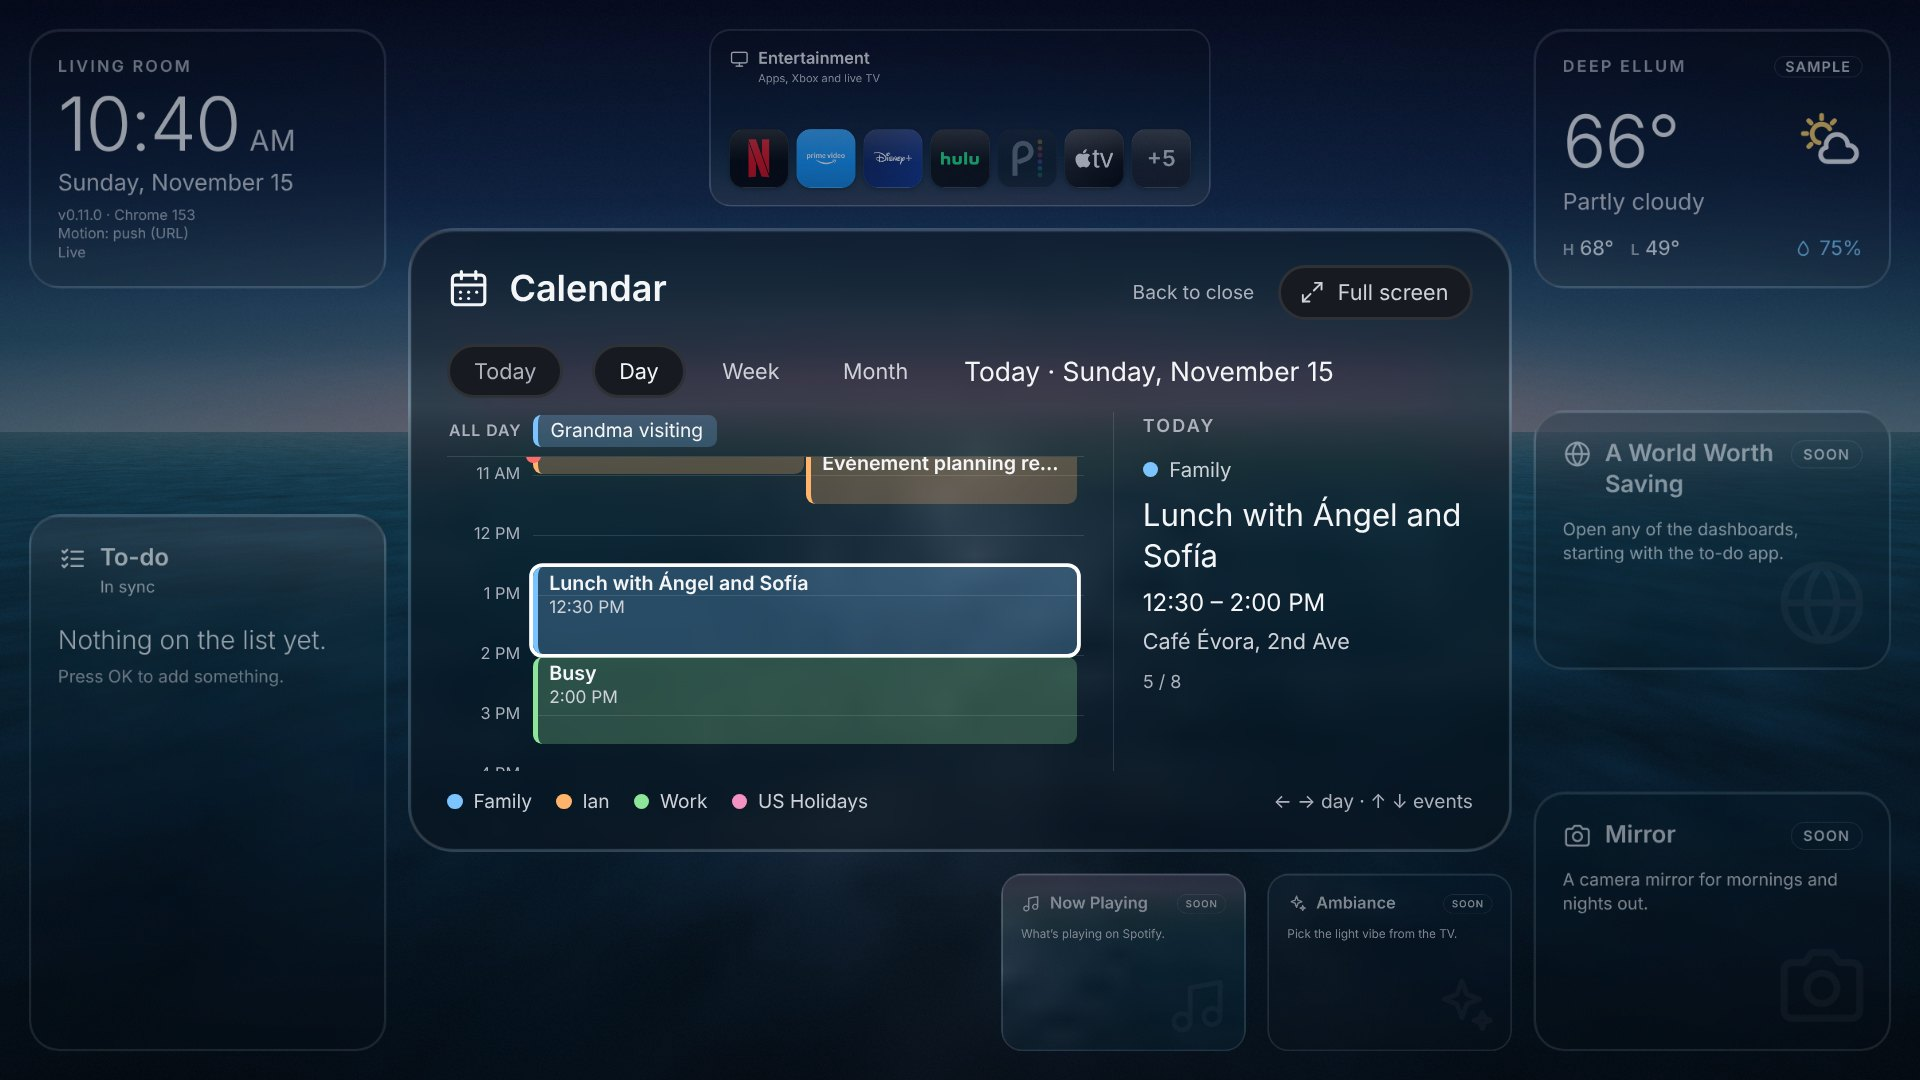
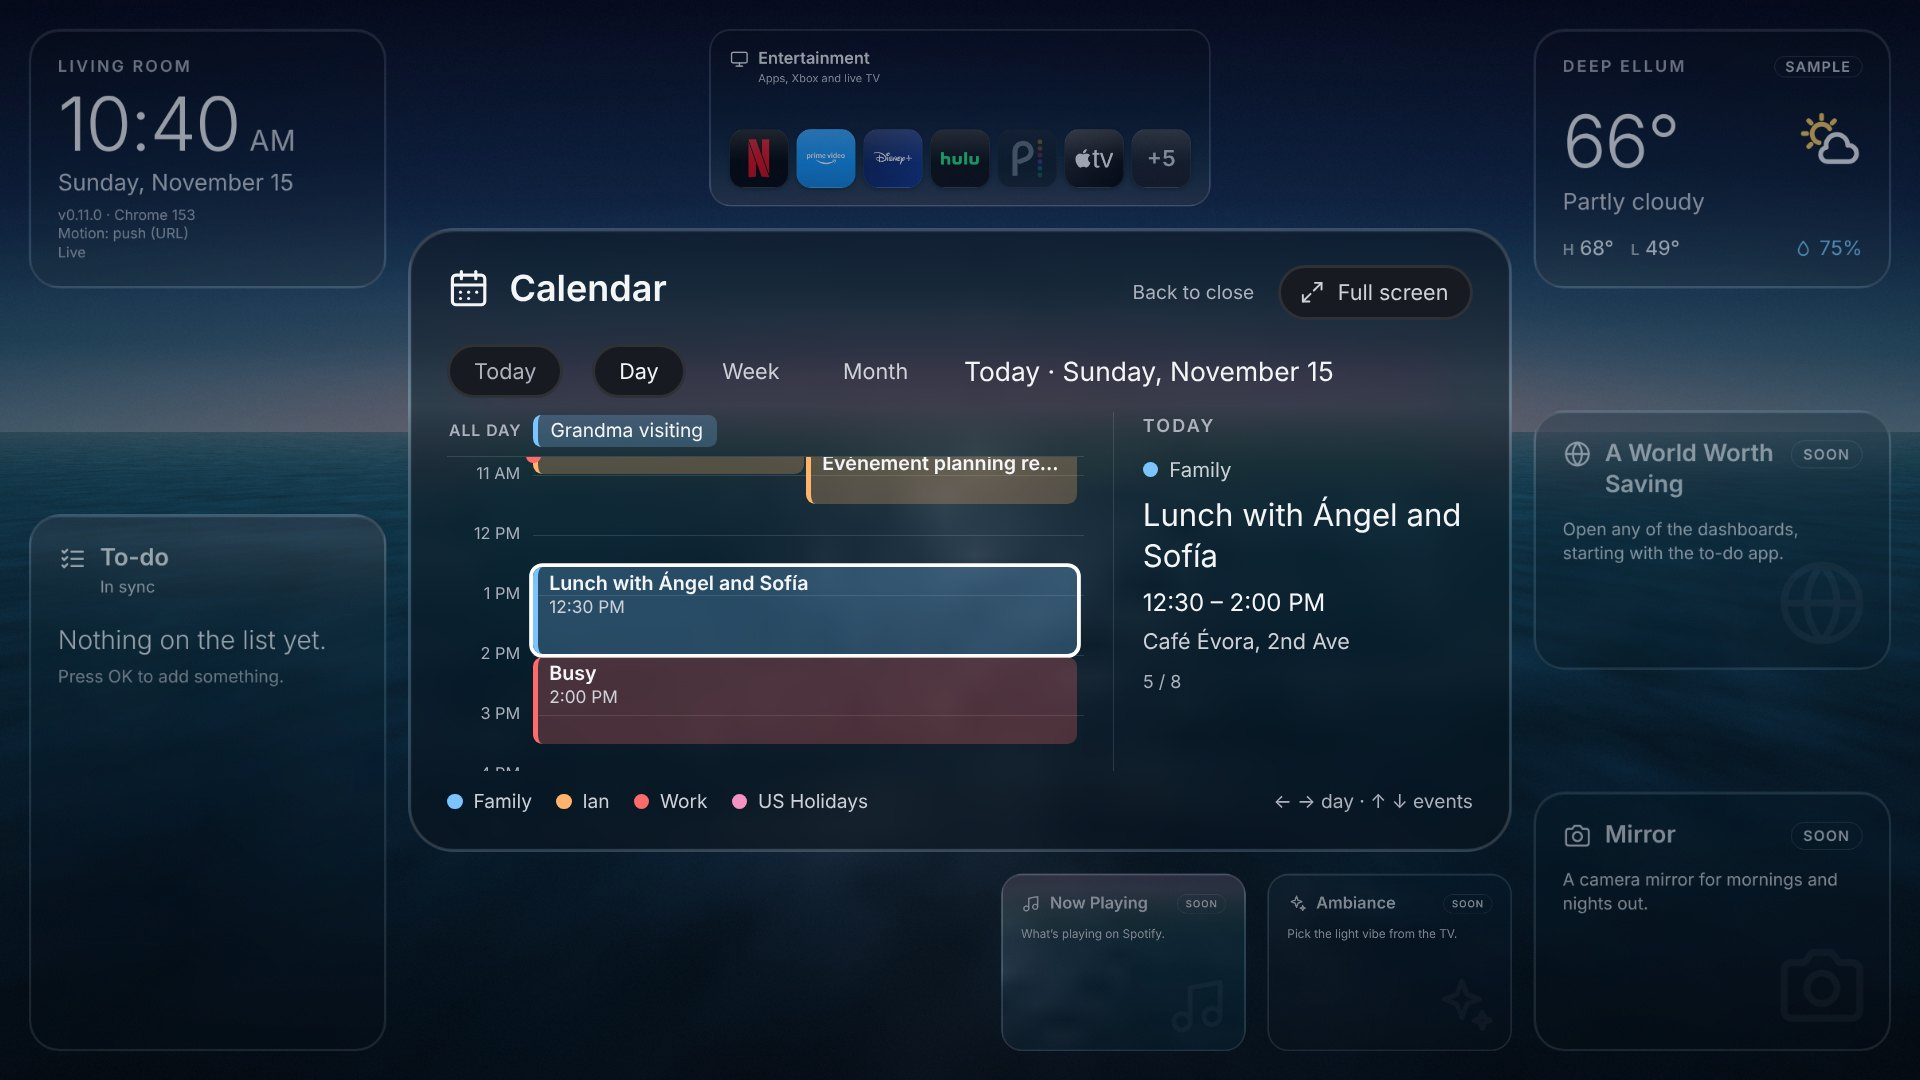
Calendar colors: CALENDAR_n_COLOR in the Pi's .env picks each calendar's color (v0.11.1)
Google's secret iCal address carries no colors, so the TV colored calendars by their number. A name (red, blue, ...) or #rrggbb per calendar now travels in the calendar data and wins over the palette.

Claude-Session: https://claude.ai/code/session_01T64USYttSBSwP3yz1tYdEp

Changed region(s): [[0.25, 0.6111, 0.5625, 0.7028], [0.3125, 0.7333, 0.3438, 0.7639]]

diff --git a/pi/calendar.js b/pi/calendar.js
@@ -13,7 +13,7 @@
  *
  * The resource data:
  *   { configured: true, tz, from, to, updatedAt, truncated,
- *     calendars: [{ cal, name, ok, error, count, skipped, updatedAt }],
+ *     calendars: [{ cal, name, color, ok, error, count, skipped, updatedAt }],
  *     events: [{ id, cal, title, start, end, allDay, location }] }
  * Timed events have UTC start and end like "2026-11-16T15:00:00Z". All-day
  * events have dates like "2026-11-16", and the end date is the day after the
@@ -790,7 +790,7 @@ const calNum = (v) => (Number.isInteger(v) && v >= 1 && v <= MAX_CALENDARS ? v :
 function cleanData(d) {
   if (!isObj(d) || d.configured !== true) return unconfiguredData();
   const calendars = (Array.isArray(d.calendars) ? d.calendars : []).filter((c) => isObj(c) && calNum(c.cal)).slice(0, MAX_CALENDARS).map((c) => ({
-    cal: c.cal, name: cleanText(str(c.name), MAX_NAME), ok: c.ok === true, error: str(c.error).slice(0, 200),
+    cal: c.cal, name: cleanText(str(c.name), MAX_NAME), color: /^#[0-9a-f]{6}$/.test(str(c.color)) ? c.color : '', ok: c.ok === true, error: str(c.error).slice(0, 200),
     count: Number.isInteger(c.count) ? c.count : 0, skipped: Number.isInteger(c.skipped) ? c.skipped : 0,
     updatedAt: strOrNull(c.updatedAt)
   }));
@@ -865,7 +865,24 @@ function cleanName(s) {
   return cleanText(s, MAX_NAME);
 }
 
-// Checks the calendar list. Each entry is { cal?, name, url, details }.
+// Calendar colors: a name from this list or #rrggbb (CALENDAR_n_COLOR). The
+// named ones are tuned to be readable on the TV's dark glass. '' = the TV's
+// own default for that calendar number.
+const COLOR_NAMES = {
+  red: '#ff6b6b', orange: '#ffb36b', yellow: '#ffd166', green: '#7fdc8a', teal: '#5fd6cf',
+  blue: '#6db8ff', purple: '#c7a6ff', pink: '#f592c4', gray: '#b8c4d6', grey: '#b8c4d6'
+};
+
+// Returns '#rrggbb', '' (not set) or null (not understood).
+function normalizeColor(v) {
+  const t = String(v === undefined || v === null ? '' : v).trim().toLowerCase();
+  if (!t) return '';
+  if (Object.prototype.hasOwnProperty.call(COLOR_NAMES, t)) return COLOR_NAMES[t];
+  const m = /^#?([0-9a-f]{6})$/.exec(t);
+  return m ? '#' + m[1] : null;
+}
+
+// Checks the calendar list. Each entry is { cal?, name, url, details, color? }.
 // Problems are logged by name and that calendar is left out.
 function checkCalendars(list, log, allowHttp) {
   const out = [];
@@ -888,6 +905,11 @@ function checkCalendars(list, log, allowHttp) {
       log('calendar ' + name + ': DETAILS must be show or busy, skipped');
       return;
     }
+    let color = normalizeColor(c.color);
+    if (color === null) {
+      log('calendar ' + name + ': COLOR must be one of ' + Object.keys(COLOR_NAMES).filter((k) => k !== 'grey').join(', ') + ' or a code like #d50000; using the default color');
+      color = '';
+    }
     const u = checkLink(urlText, allowHttp);
     if (typeof u === 'string') {
       log('calendar ' + name + ': ' + u + ', skipped');
@@ -902,19 +924,19 @@ function checkCalendars(list, log, allowHttp) {
       return;
     }
     links.set(u.href, name);
-    out.push({ cal: cal, name: name, url: u.href, details: details });
+    out.push({ cal: cal, name: name, url: u.href, details: details, color: color });
   });
   return out.sort((a, b) => a.cal - b.cal);
 }
 
-// CALENDAR_1_NAME, CALENDAR_1_URL, CALENDAR_1_DETAILS ... up to 9.
+// CALENDAR_1_NAME, CALENDAR_1_URL, CALENDAR_1_DETAILS, CALENDAR_1_COLOR ... up to 9.
 function calendarsFromEnv(env) {
   const out = [];
   for (let n = 1; n <= MAX_CALENDARS; n++) {
     const url = env['CALENDAR_' + n + '_URL'];
     const name = env['CALENDAR_' + n + '_NAME'];
     if (!url && !name) continue;
-    out.push({ cal: n, name: name || '', url: url || '', details: env['CALENDAR_' + n + '_DETAILS'] });
+    out.push({ cal: n, name: name || '', url: url || '', details: env['CALENDAR_' + n + '_DETAILS'], color: env['CALENDAR_' + n + '_COLOR'] });
   }
   return out;
 }
@@ -1071,6 +1093,7 @@ function createReader(o) {
       calendars: cals.map((c) => ({
         cal: c.cfg.cal,
         name: c.cfg.name,
+        color: c.cfg.color || '',
         ok: c.ok,
         error: c.ok ? '' : c.error,
         count: all.filter((e) => e.cal === c.cfg.cal).length,
@@ -1174,6 +1197,7 @@ module.exports = {
   windowFor: windowFor,
   cleanText: cleanText,
   cleanData: cleanData,
+  normalizeColor: normalizeColor,
   cleanResource: cleanResource,
   unconfiguredData: unconfiguredData,
   sameData: sameData,

diff --git a/pi/calendar-test.js b/pi/calendar-test.js
@@ -418,6 +418,28 @@ async function main() {
     assert.strictEqual(cal.timezone('Mars/Base', () => {}), 'America/Chicago');
   });
 
+  await check('settings: COLOR takes a name or #rrggbb; anything else is logged and the default color is used', () => {
+    assert.strictEqual(cal.normalizeColor(''), '');
+    assert.strictEqual(cal.normalizeColor(undefined), '');
+    assert.strictEqual(cal.normalizeColor(' Blue '), '#6db8ff');
+    assert.strictEqual(cal.normalizeColor('#D50000'), '#d50000');
+    assert.strictEqual(cal.normalizeColor('d50000'), '#d50000');
+    assert.strictEqual(cal.normalizeColor('chartreuse'), null);
+    assert.strictEqual(cal.normalizeColor('#12345'), null);
+    assert.strictEqual(cal.normalizeColor('red; background:url(x)'), null);
+    const lines = [];
+    const list = cal.checkCalendars(cal.calendarsFromEnv({
+      CALENDAR_1_NAME: 'A', CALENDAR_1_URL: 'https://calendar.example.test/a', CALENDAR_1_COLOR: 'green',
+      CALENDAR_2_NAME: 'B', CALENDAR_2_URL: 'https://calendar.example.test/b', CALENDAR_2_COLOR: 'chartreuse',
+      CALENDAR_3_NAME: 'C', CALENDAR_3_URL: 'https://calendar.example.test/c'
+    }), (s) => lines.push(s), false);
+    assert.deepStrictEqual(list.map((c) => [c.cal, c.color]), [[1, '#7fdc8a'], [2, ''], [3, '']]);
+    assert.strictEqual(lines.length, 1);
+    assert.ok(lines[0].indexOf('calendar B: COLOR') === 0 && lines[0].indexOf('chartreuse') < 0, lines[0]);
+    const d = cal.cleanData({ configured: true, calendars: [{ cal: 1, name: 'A', color: '#7fdc8a' }, { cal: 2, name: 'B', color: 'red; x' }], events: [] });
+    assert.deepStrictEqual(d.calendars.map((c) => c.color), ['#7fdc8a', ''], 'a damaged state file cannot carry a bad color');
+  });
+
   /* --- the server, end to end --- */
 
   const feeds = await feedServer();
@@ -429,7 +451,7 @@ async function main() {
   feeds.modes[pathB] = { file: 'basic.ics' };
   const logs = [];
   let fakeNow = Date.parse('2026-10-31T17:00:00Z');
-  const calendars = [{ name: 'Ian', url: linkA }, { name: 'Health', url: linkB, details: 'busy' }];
+  const calendars = [{ name: 'Ian', url: linkA }, { name: 'Health', url: linkB, details: 'busy', color: 'Red' }];
   const dir = tmpDir();
   feeds.hold();
   let h = await startHub({ dataDir: dir, calendars: calendars, now: () => new Date(fakeNow), log: (s) => logs.push(s), calendarTimeout: 400 });
@@ -471,7 +493,8 @@ async function main() {
     assert.strictEqual(d.to, '2026-12-31T06:00:00Z');
     assert.strictEqual(d.updatedAt, '2026-10-31T17:00:00Z');
     assert.strictEqual(d.truncated, false);
-    assert.deepStrictEqual(Object.keys(d.calendars[0]), ['cal', 'name', 'ok', 'error', 'count', 'skipped', 'updatedAt']);
+    assert.deepStrictEqual(Object.keys(d.calendars[0]), ['cal', 'name', 'color', 'ok', 'error', 'count', 'skipped', 'updatedAt']);
+    assert.deepStrictEqual(d.calendars.map((c) => c.color), ['', '#ff6b6b'], 'a named color becomes its code; unset stays empty');
     const dentist = d.events.find((e) => e.title === 'Dentist');
     assert.deepStrictEqual([dentist.cal, dentist.start, dentist.end, dentist.location], [1, '2026-11-02T15:00:00Z', '2026-11-02T16:00:00Z', 'Downtown clinic']);
     const health = d.events.filter((e) => e.cal === 2);

diff --git a/dev/update-test.js b/dev/update-test.js
@@ -117,7 +117,7 @@ const COMMITS = {
   [A]: (rest) => readWorking(rest),
   [B]: (rest) => {
     const body = readWorking(rest);
-    if (rest === 'app/hub.js' && body) return Buffer.from(withBuild(body.toString('utf8'), 'v0.11.0-B'));
+    if (rest === 'app/hub.js' && body) return Buffer.from(withBuild(body.toString('utf8'), 'v0.11.1-B'));
     return body;
   },
   [BROKEN]: (rest) => {
@@ -367,10 +367,10 @@ async function check1() {
   await waitAt(page, A, 'app/hub.html');
   const rec = await until(async () => { const r = await record(page); return r && r.good === A ? r : false; }, 3000, 'good is not A');
   assert(!rec.trying, 'trying was not cleared: ' + JSON.stringify(rec));
-  assert(rec.goodPage === 'app/hub.html' && rec.goodVersion === '0.11.0', 'record: ' + JSON.stringify(rec));
+  assert(rec.goodPage === 'app/hub.html' && rec.goodVersion === '0.11.1', 'record: ' + JSON.stringify(rec));
   assert(rec.entry === new URL(shellUrl()).pathname, 'entry: ' + rec.entry);
   const lines = await look.lines(page);
-  assert(/^v0\.11\.0 \(newest\)/.test(lines[0]), 'first status line: ' + lines[0]);
+  assert(/^v0\.11\.1 \(newest\)/.test(lines[0]), 'first status line: ' + lines[0]);
   assert(lines.length === 2, 'status lines: ' + JSON.stringify(lines));
   const asks = githubAsks(asked);
   assert(asks.length === 1, 'GitHub was asked ' + asks.length + ' times');
@@ -397,7 +397,7 @@ async function check2() {
   await go(page, shellUrl());
   await waitAt(page, B, 'app/hub.html');
   const lines = await look.lines(page);
-  assert(/^v0\.11\.0-B \(newest\)/.test(lines[0]), 'first status line: ' + lines[0]);
+  assert(/^v0\.11\.1-B \(newest\)/.test(lines[0]), 'first status line: ' + lines[0]);
   const rec = await until(async () => { const r = await record(page); return r && r.good === B ? r : false; }, 3000, 'good is not B');
   assert(!rec.trying, 'trying was not cleared');
   noMissingFiles(logSince(at));
@@ -473,7 +473,7 @@ async function check4() {
   await waitAt(page, B, 'app/hub.html');
   rec = await until(async () => { const r = await record(page); return r && r.good === B ? r : false; }, 3000, 'good is not B');
   assert(!rec.trying, 'trying was not cleared on B: ' + JSON.stringify(rec));
-  assert(/^v0\.11\.0-B \(newest\)/.test((await look.lines(page))[0]), 'first line on B');
+  assert(/^v0\.11\.1-B \(newest\)/.test((await look.lines(page))[0]), 'first line on B');
   noErrors(context);
 }
 

diff --git a/app/widgets/calendar.js b/app/widgets/calendar.js
@@ -4,7 +4,7 @@
  * The events come from the hub server on the Raspberry Pi as the live
  * resource "calendar" (see docs/live-updates.md, "What the Pi reader does"):
  *   { configured, tz, from, to, updatedAt, truncated,
- *     calendars: [{ cal, name, ok, error, count, skipped, updatedAt }],
+ *     calendars: [{ cal, name, color, ok, error, count, skipped, updatedAt }],
  *     events: [{ id, cal, title, start, end, allDay, location }] }
  * Timed events are UTC ("2026-11-16T15:00:00Z"); all-day events are dates
  * ("2026-11-16") with an exclusive end. Everything is shown in data.tz, not
@@ -164,8 +164,21 @@
     try { return parseFloat(getComputedStyle(document.documentElement).fontSize) || 16; } catch (e) { return 16; }
   }
 
+  // Colors set on the Pi (CALENDAR_n_COLOR) win over the palette: cal number to [r, g, b].
+  var chosen = {};
+
+  function readChosen(d) {
+    var out = {};
+    var list = d && isArr(d.calendars) ? d.calendars : [];
+    for (var i = 0; i < list.length; i++) {
+      var m = /^#([0-9a-f]{2})([0-9a-f]{2})([0-9a-f]{2})$/i.exec(str(list[i] && list[i].color));
+      if (m) out[list[i].cal] = [parseInt(m[1], 16), parseInt(m[2], 16), parseInt(m[3], 16)];
+    }
+    return out;
+  }
+
   function color(cal, alpha) {
-    var c = PALETTE[((cal || 1) - 1) % PALETTE.length] || PALETTE[0];
+    var c = chosen[cal] || PALETTE[((cal || 1) - 1) % PALETTE.length] || PALETTE[0];
     return alpha === undefined ? 'rgb(' + c.join(',') + ')' : 'rgba(' + c.join(',') + ',' + alpha + ')';
   }
 
@@ -563,6 +576,7 @@
 
   function useData(d, cached) {
     data = d;
+    chosen = readChosen(d);
     fromCache = !!cached;
     if (d && d.configured === true) {
       if (!zone || zone.tz !== str(d.tz)) zone = makeZone(str(d.tz));

diff --git a/dev/calendar-sample.js b/dev/calendar-sample.js
@@ -9,7 +9,7 @@
  *
  *   const sample = require('./calendar-sample');
  *   sample.feedServer({ today: () => '2026-11-15' }).then((feeds) => {
- *     feeds.calendars        // [{ name, url, details }] for server.start({ calendars })
+ *     feeds.calendars        // [{ name, url, details, color }] for server.start({ calendars })
  *     feeds.setMode('fail')  // sample | empty | fail | partial | many
  *     feeds.close()
  *   });
@@ -65,7 +65,7 @@ function feed(name, cal, today, events) {
 const CALENDARS = [
   { name: 'Family', path: '/family.ics' },
   { name: 'Ian', path: '/ian.ics' },
-  { name: 'Work', path: '/work.ics', details: 'busy' },
+  { name: 'Work', path: '/work.ics', details: 'busy', color: 'red' },
   { name: 'US Holidays', path: '/holidays.ics' }
 ];
 
@@ -147,7 +147,7 @@ function feedServer(opts) {
     srv.listen(opts.port || 0, '127.0.0.1', () => {
       const base = 'http://127.0.0.1:' + srv.address().port;
       resolve({
-        calendars: CALENDARS.map((c) => ({ name: c.name, url: base + c.path, details: c.details || 'show' })),
+        calendars: CALENDARS.map((c) => ({ name: c.name, url: base + c.path, details: c.details || 'show', color: c.color || '' })),
         setMode: (m) => { if (MODES.indexOf(m) < 0) return false; mode = m; return true; },
         mode: () => mode,
         close: () => new Promise((r) => { srv.close(() => r()); if (srv.closeAllConnections) srv.closeAllConnections(); })

diff --git a/app/hub.js b/app/hub.js
@@ -55,7 +55,7 @@
  *
  * ctx, one per widget:
  *   ctx.id, ctx.config        HUB_CONFIG.widgets[id] || {}
- *   ctx.build                 'v0.11.0'
+ *   ctx.build                 'v0.11.1'
  *   ctx.motionStatus()        e.g. 'Motion: push (auto, 58 fps)'
  *   ctx.browser()             the TV's browser, e.g. 'Chrome 63 · Tizen 5.0' ('' if unknown)
  *   ctx.toast(text, ms)
@@ -102,7 +102,7 @@
 (function () {
   'use strict';
 
-  var BUILD = 'v0.11.0';
+  var BUILD = 'v0.11.1';
   var SERVICE = 'http://127.0.0.1:8095';
   // IME_DONE and IME_CANCEL: Done and Cancel on Samsung's on-screen keyboard.
   var KEY = { LEFT: 37, UP: 38, RIGHT: 39, DOWN: 40, ENTER: 13, BACK: 10009, ESC: 27, BACKSPACE: 8,

diff --git a/dev/calendar-shots.js b/dev/calendar-shots.js
@@ -269,6 +269,9 @@ async function mainShots() {
   await tileShot(page, 'calendar-1-home-tile');
 
   await openPanel(page);
+  const swatches = await page.evaluate(() => Array.prototype.map.call(document.querySelectorAll('.cal-legend .cal-swatch'), (n) => getComputedStyle(n).backgroundColor));
+  expect(swatches.length === 4 && swatches[2] === 'rgb(255, 107, 107)' && swatches[0] === 'rgb(124, 196, 255)',
+    'COLOR from the Pi wins (Work is red), the others keep the palette: ' + JSON.stringify(swatches));
   expect((await selected(page)) === 'Call with the contractor', 'Day opens on the event happening now, got "' + (await selected(page)) + '"');
   await shot(page, 'calendar-2-day');
 

diff --git a/dev/live-test.js b/dev/live-test.js
@@ -275,7 +275,7 @@ async function check1() {
   await sleep(1500);
   const lines = await look.statusLines(page);
   assert(lines.length === 2, 'expected 2 status lines, got ' + JSON.stringify(lines));
-  assert(lines[0].indexOf('v0.11.0') === 0, 'first status line: ' + lines[0]);
+  assert(lines[0].indexOf('v0.11.1') === 0, 'first status line: ' + lines[0]);
   assert((await look.todoSub(page)) === 'On this TV', 'to-do sub line: ' + (await look.todoSub(page)));
   assert((await look.state(page)) === 'off', 'live state: ' + (await look.state(page)));
   await addOnScreen(page, 'Milk');

diff --git a/service.js b/service.js
@@ -24,7 +24,7 @@ var urlLib = require('url');
 var os = require('os');
 
 var PORT = 8095;
-var VERSION = '0.11.0';
+var VERSION = '0.11.1';
 var TOKEN_FILE = '/home/owner/share/tizen-takeover-remote-token.txt';
 var REMOTE_NAME = new Buffer('Home Hub').toString('base64');
 

diff --git a/docs/live-updates.md b/docs/live-updates.md
@@ -136,7 +136,7 @@ From you: which calendars to show, whether any show as just "Busy", and one secr
 - A push happens only when the events really change, so a quiet calendar sends nothing.
 - Data shape, per event: `{ id, cal, title, start, end, allDay, location }`. Timed events use UTC ISO strings. All-day events use `YYYY-MM-DD` with an exclusive end. `cal` is the 1-based number of the calendar in `calendars`, which carries `name`, `ok`, `error`, `count`, `skipped`, `updatedAt`. With `busy`, titles and places are replaced by "Busy" before the data leaves the reader.
 - `GET /api/calendar` returns it, `POST /api/calendar/refresh` reads now and waits (up to 25 s), `./hub calendar status` and `./hub calendar refresh` wrap both.
-- The TV widget is `app/widgets/calendar.js` (v0.11.0). It listens for `calendar`, keeps the last copy on the TV (`homeHub.calendar.v1`) and converts every time to `tz` itself.
+- The TV widget is `app/widgets/calendar.js` (v0.11.1). It listens for `calendar`, keeps the last copy on the TV (`homeHub.calendar.v1`) and converts every time to `tz` itself.
 - `updatedAt` only moves when the events change, because a refresh that finds the same events pushes nothing. So the TV does not call data old just because `updatedAt` is old: it only says "Last updated …" when the line to the Pi is down (or it is showing its saved copy) and the last time it had the Pi is more than 30 minutes ago.
 
 ## How it is tested without your TV or Pi

diff --git a/README.md b/README.md
@@ -82,7 +82,7 @@ Set `motion: 'fade'` (or `'expand'`) to pick one yourself. On a laptop, `?motion
 
 ### The status line
 
-The two small lines at the bottom of the Today tile show the hub version and the TV's browser, then the motion choice, for example `v0.11.0 (newest) · Chrome 63 · Tizen 5.0` and `Motion: push (auto, 57 fps)`. `(newest)` means GitHub confirmed this is the newest commit of the branch. `measuring` means auto is still timing; `(config)` or `(URL)` means the mode was set by hand. One more line shows when live updates have something to say (see [Live updates](#live-updates)), and another when updates do (see [Updating](#updating)).
+The two small lines at the bottom of the Today tile show the hub version and the TV's browser, then the motion choice, for example `v0.11.1 (newest) · Chrome 63 · Tizen 5.0` and `Motion: push (auto, 57 fps)`. `(newest)` means GitHub confirmed this is the newest commit of the branch. `measuring` means auto is still timing; `(config)` or `(URL)` means the mode was set by hand. One more line shows when live updates have something to say (see [Live updates](#live-updates)), and another when updates do (see [Updating](#updating)).
 
 ### Entertainment
 

diff --git a/pi/README.md b/pi/README.md
@@ -133,6 +133,16 @@ CALENDAR_2_DETAILS=busy
 
 The TV then shows each event as `Busy`, with its time but no title and no place. Restart the server after the change, as in step 9.
 
+### Choose a calendar's color
+
+The secret address does not carry Google's colors, so the TV gives each calendar a color by its number (1 to 9). To match Google, or just to pick your own, add a line per calendar:
+
+```
+CALENDAR_3_COLOR=red
+```
+
+Use `red`, `orange`, `yellow`, `green`, `teal`, `blue`, `purple`, `pink` or `gray`, or a code like `#d50000`. These names are tuned to be readable on the TV. A color the server does not understand is logged by calendar name and the default is used. Restart the server after the change, as in step 9.
+
 ### New events and waiting
 
 Google can take a while to put a new or changed event into the secret address. We have not confirmed how long. The Pi reads every 5 minutes (change it with `CALENDAR_REFRESH_MINUTES` in `.env`).
